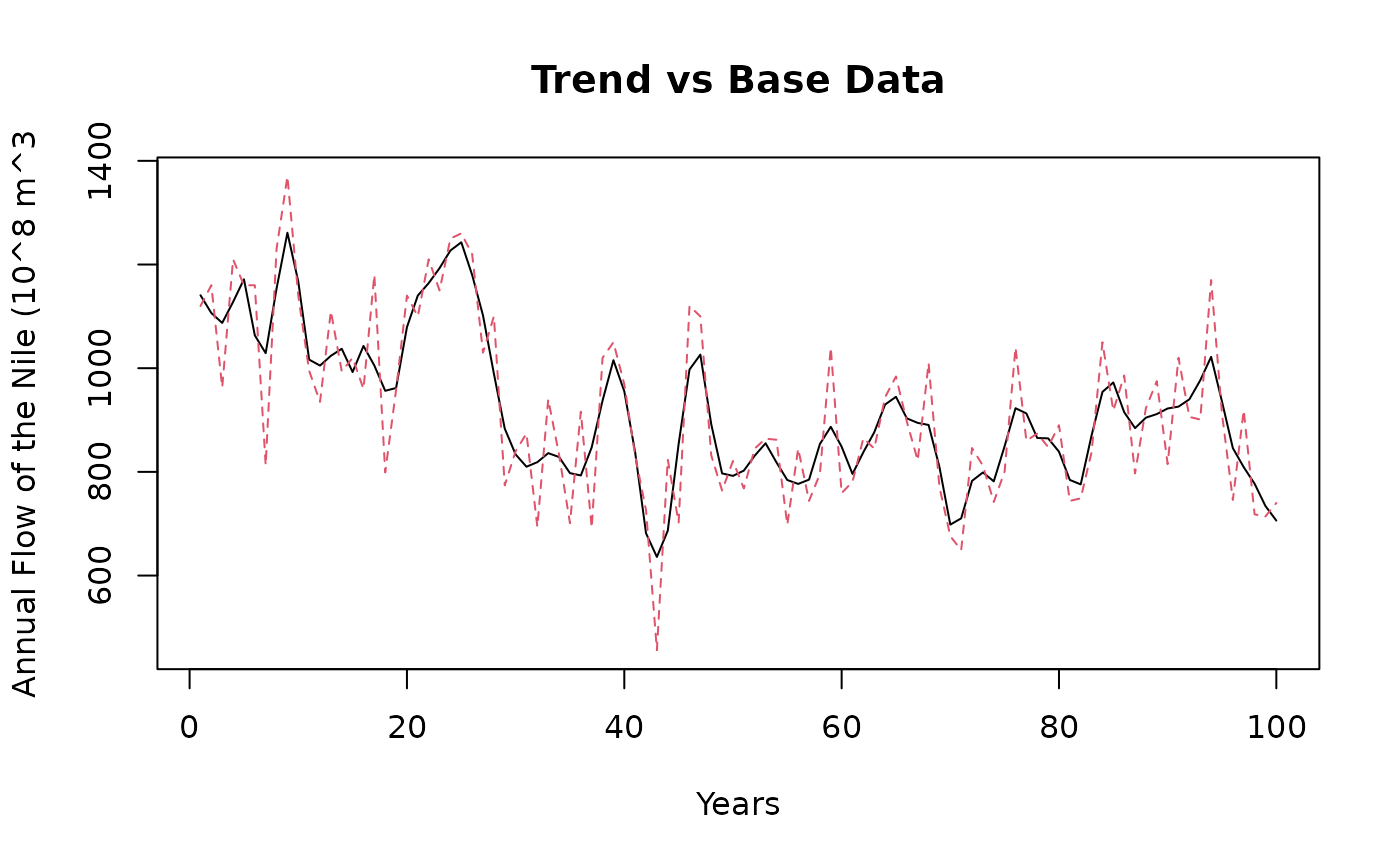
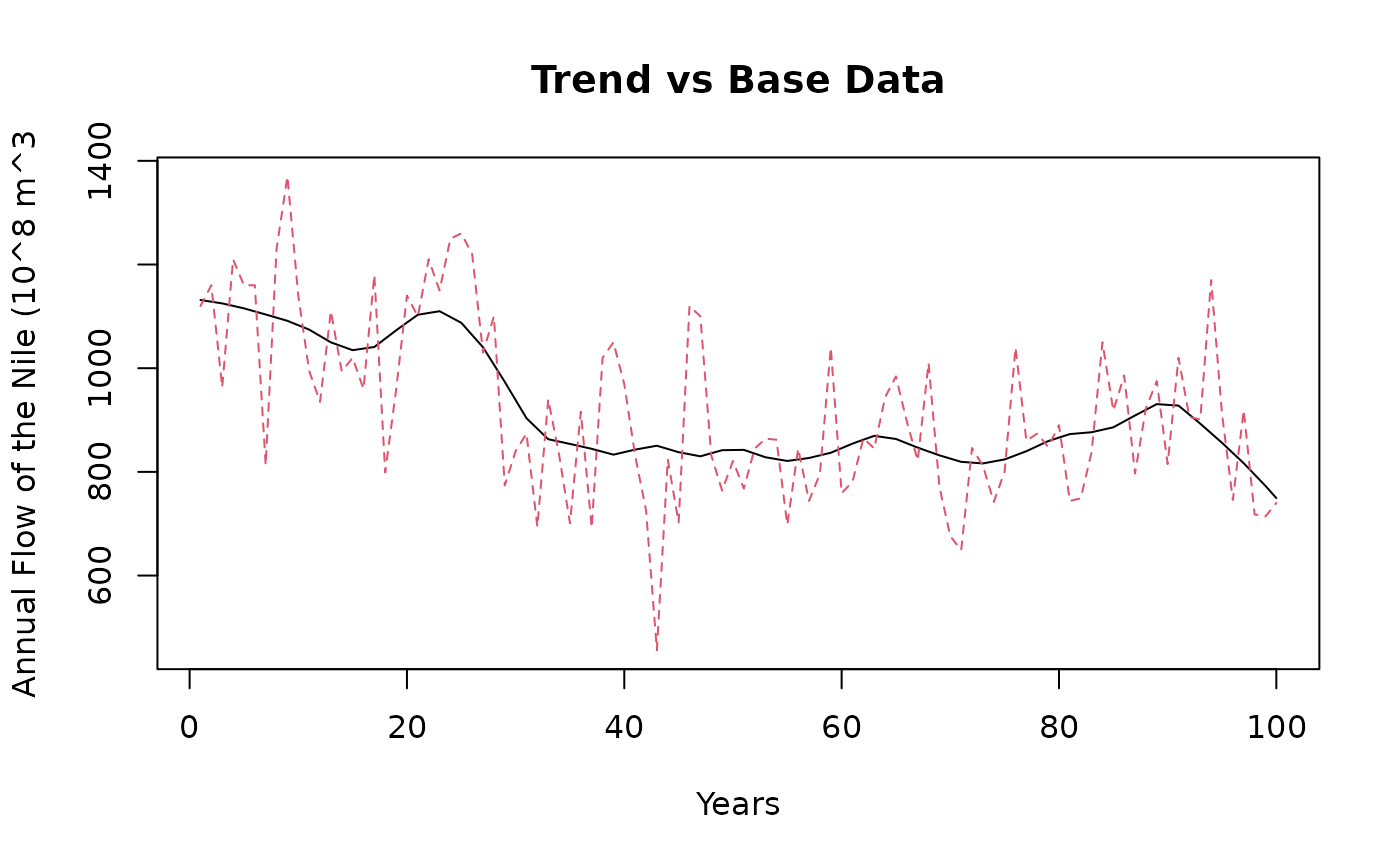
Deploying to gh-pages from @ Allen-1242/StructuralDecompose@242f503551a7ada7b1bdc112726600da75fca529 🚀

diff --git a/articles/Example-Walkthrough.html b/articles/Example-Walkthrough.html
@@ -126,7 +126,7 @@ with simple stl and see how well the data movement is captured.</p>
 <div class="sourceCode" id="cb4"><pre class="downlit sourceCode r">
 <code class="sourceCode R"><span><span class="va">data</span> <span class="op">&lt;-</span> <span class="fu">StructuralDecompose</span><span class="fu">::</span><span class="va"><a href="../reference/Nile_dataset.html">Nile_dataset</a></span><span class="op">[</span>,<span class="fl">1</span><span class="op">]</span></span>
 <span></span>
-<span><span class="va">data</span> <span class="op">=</span> <span class="fu"><a href="https://rdrr.io/r/stats/ts.html" class="external-link">ts</a></span><span class="op">(</span>data <span class="op">=</span> <span class="fu"><a href="https://rdrr.io/r/base/vector.html" class="external-link">as.vector</a></span><span class="op">(</span><span class="fu"><a href="https://rdrr.io/r/base/t.html" class="external-link">t</a></span><span class="op">(</span><span class="va">data</span><span class="op">)</span><span class="op">)</span>, frequency <span class="op">=</span> <span class="fl">2</span><span class="op">)</span></span>
+<span><span class="va">data</span> <span class="op">=</span> <span class="fu"><a href="https://rdrr.io/r/stats/ts.html" class="external-link">ts</a></span><span class="op">(</span>data <span class="op">=</span> <span class="fu"><a href="https://rdrr.io/r/base/vector.html" class="external-link">as.vector</a></span><span class="op">(</span><span class="fu"><a href="https://rdrr.io/r/base/t.html" class="external-link">t</a></span><span class="op">(</span><span class="va">data</span><span class="op">)</span><span class="op">)</span>, frequency <span class="op">=</span> <span class="fl">12</span><span class="op">)</span></span>
 <span></span>
 <span><span class="va">decomposed</span> <span class="op">&lt;-</span> <span class="fu"><a href="https://rdrr.io/r/stats/stl.html" class="external-link">stl</a></span><span class="op">(</span><span class="va">data</span>, s.window <span class="op">=</span> <span class="st">'periodic'</span><span class="op">)</span></span>
 <span></span>
@@ -142,18 +142,37 @@ behavior</p>
 <div class="sourceCode" id="cb5"><pre class="downlit sourceCode r">
 <code class="sourceCode R"><span><span class="fu"><a href="https://rdrr.io/r/graphics/plot.default.html" class="external-link">plot</a></span><span class="op">(</span><span class="fu"><a href="https://rdrr.io/r/base/cbind.html" class="external-link">cbind</a></span><span class="op">(</span><span class="va">seasonal</span>, <span class="va">remainder</span>, <span class="va">trend</span><span class="op">)</span>, type <span class="op">=</span> <span class="st">'l'</span>, main <span class="op">=</span> <span class="st">'Decomposed Series'</span><span class="op">)</span></span></code></pre></div>
 <p><img src="Example-Walkthrough_files/figure-html/stl%20plotting%20all-1.png" width="700"></p>
-<p>As we can see the trend overexplains the time series</p>
+<p>As we can see the trend overexplains the time series and we do not
+see the average movement of the series</p>
 <div class="sourceCode" id="cb6"><pre class="downlit sourceCode r">
 <code class="sourceCode R"><span><span class="fu"><a href="https://rdrr.io/r/graphics/matplot.html" class="external-link">matplot</a></span><span class="op">(</span><span class="fu"><a href="https://rdrr.io/r/base/cbind.html" class="external-link">cbind</a></span><span class="op">(</span><span class="va">trend</span>, <span class="va">data</span><span class="op">)</span>, type <span class="op">=</span> <span class="st">'l'</span>, xlab <span class="op">=</span> <span class="st">'Years'</span>, ylab <span class="op">=</span> <span class="st">'Annual Flow of the Nile (10^8 m^3'</span>, main <span class="op">=</span> <span class="st">'Trend vs Base Data'</span><span class="op">)</span></span></code></pre></div>
-<p><img src="Example-Walkthrough_files/figure-html/Start%20of%20the%20function-1.png" width="700">
-As we can see the trend overexplains the time series</p>
-<!-- ```{r} -->
-<!-- knitr::include_graphics("/images/Anomalies_Media.png", error = FALSE) -->
-<!-- ``` -->
-<!-- matplot(cbind(data, Results$trend, Results$trend_line, lowess(data)$y), type = 'l') -->
-<!-- Results$trend -->
-<!-- matplot(cbind(Results$seasonal, Data = data), type = 'l') -->
-<!-- matplot(cbind(Results$trend, data, Results$trend_line), type = 'l') -->
+<p><img src="Example-Walkthrough_files/figure-html/Start%20of%20the%20function-1.png" width="700"></p>
+<p>Let’s now check simple smoothening with lowess</p>
+<div class="sourceCode" id="cb7"><pre class="downlit sourceCode r">
+<code class="sourceCode R"><span><span class="va">Trend</span> <span class="op">&lt;-</span> <span class="fu"><a href="https://rdrr.io/r/stats/lowess.html" class="external-link">lowess</a></span><span class="op">(</span><span class="va">data</span><span class="op">)</span><span class="op">$</span><span class="va">y</span></span>
+<span><span class="fu"><a href="https://rdrr.io/r/graphics/matplot.html" class="external-link">matplot</a></span><span class="op">(</span><span class="fu"><a href="https://rdrr.io/r/base/cbind.html" class="external-link">cbind</a></span><span class="op">(</span><span class="va">Trend</span>, <span class="va">data</span><span class="op">)</span>, type <span class="op">=</span> <span class="st">'l'</span>, xlab <span class="op">=</span> <span class="st">'Years'</span>, ylab <span class="op">=</span> <span class="st">'Annual Flow of the Nile (10^8 m^3'</span>, main <span class="op">=</span> <span class="st">'Smoothened Trend vs Base Data'</span><span class="op">)</span></span></code></pre></div>
+<p><img src="Example-Walkthrough_files/figure-html/Simple%20smoothening-1.png" width="700"></p>
+<p>As we can see, it does not do a great job of identifying that
+significant level shift, it smoothens the entire series at once.</p>
+<p>Let’s see it’s behavior with StructuralDecompose</p>
+<div class="sourceCode" id="cb8"><pre class="downlit sourceCode r">
+<code class="sourceCode R"><span></span>
+<span><span class="va">Results</span> <span class="op">&lt;-</span> <span class="fu">StructuralDecompose</span><span class="fu">::</span><span class="fu"><a href="../reference/StructuralDecompose.html">StructuralDecompose</a></span><span class="op">(</span>Data <span class="op">=</span> <span class="va">data</span><span class="op">)</span></span>
+<span>  </span>
+<span><span class="fu"><a href="https://rdrr.io/r/graphics/matplot.html" class="external-link">matplot</a></span><span class="op">(</span><span class="fu"><a href="https://rdrr.io/r/base/cbind.html" class="external-link">cbind</a></span><span class="op">(</span><span class="va">Results</span><span class="op">$</span><span class="va">trend_line</span>, <span class="va">data</span><span class="op">)</span>, type <span class="op">=</span> <span class="st">'l'</span>, xlab <span class="op">=</span> <span class="st">'Years'</span>, ylab <span class="op">=</span> <span class="st">'Annual Flow of the Nile (10^8 m^3'</span>, main <span class="op">=</span> <span class="st">'New Trend vs Base Data'</span><span class="op">)</span></span></code></pre></div>
+<p><img src="Example-Walkthrough_files/figure-html/New%20smoothening%20with%20old%20data-1.png" width="700"></p>
+<p>As we can see, the algorithm treats the series as two separate time
+series, and smoothens each one. This delivers a superior
+decomposition.</p>
+<p>Let’s see the other components of seasonality and the remainder.</p>
+<div class="sourceCode" id="cb9"><pre class="downlit sourceCode r">
+<code class="sourceCode R"><span><span class="fu"><a href="https://rdrr.io/r/graphics/matplot.html" class="external-link">matplot</a></span><span class="op">(</span><span class="fu"><a href="https://rdrr.io/r/base/cbind.html" class="external-link">cbind</a></span><span class="op">(</span><span class="fu"><a href="https://rdrr.io/r/base/numeric.html" class="external-link">as.numeric</a></span><span class="op">(</span><span class="va">Results</span><span class="op">$</span><span class="va">seasonality</span><span class="op">)</span>, <span class="fu"><a href="https://rdrr.io/r/base/c.html" class="external-link">c</a></span><span class="op">(</span><span class="va">data</span> <span class="op">-</span> <span class="va">Results</span><span class="op">$</span><span class="va">trend_line</span><span class="op">)</span><span class="op">)</span>, type <span class="op">=</span> <span class="st">'l'</span>, xlab <span class="op">=</span> <span class="st">'Years'</span>, ylab <span class="op">=</span> <span class="st">'Annual Flow of the Nile 10^8 m^3'</span>,main <span class="op">=</span> <span class="st">'Seasonality vs Detrended Data'</span><span class="op">)</span></span></code></pre></div>
+<p><img src="Example-Walkthrough_files/figure-html/Seasonality-1.png" width="700"></p>
+<p>As we can see the behavior of seasonality is much better now, let’s
+compare it with the older series</p>
+<div class="sourceCode" id="cb10"><pre class="downlit sourceCode r">
+<code class="sourceCode R"><span><span class="fu"><a href="https://rdrr.io/r/graphics/matplot.html" class="external-link">matplot</a></span><span class="op">(</span><span class="fu"><a href="https://rdrr.io/r/base/cbind.html" class="external-link">cbind</a></span><span class="op">(</span><span class="fu"><a href="https://rdrr.io/r/base/numeric.html" class="external-link">as.numeric</a></span><span class="op">(</span><span class="va">seasonal</span><span class="op">)</span>, <span class="fu"><a href="https://rdrr.io/r/base/c.html" class="external-link">c</a></span><span class="op">(</span><span class="va">data</span> <span class="op">-</span> <span class="va">trend</span><span class="op">)</span><span class="op">)</span>, type <span class="op">=</span> <span class="st">'l'</span>, xlab <span class="op">=</span> <span class="st">'Years'</span>, ylab <span class="op">=</span> <span class="st">'Annual Flow of the Nile 10^8 m^3'</span>,main <span class="op">=</span> <span class="st">'Seasonality vs Detrended Data'</span><span class="op">)</span></span></code></pre></div>
+<p><img src="Example-Walkthrough_files/figure-html/New%20smoothening%20with%20older%20data-1.png" width="700"></p>
 </div>
   </main><aside class="col-md-3"><nav id="toc"><h2>On this page</h2>
     </nav></aside>
